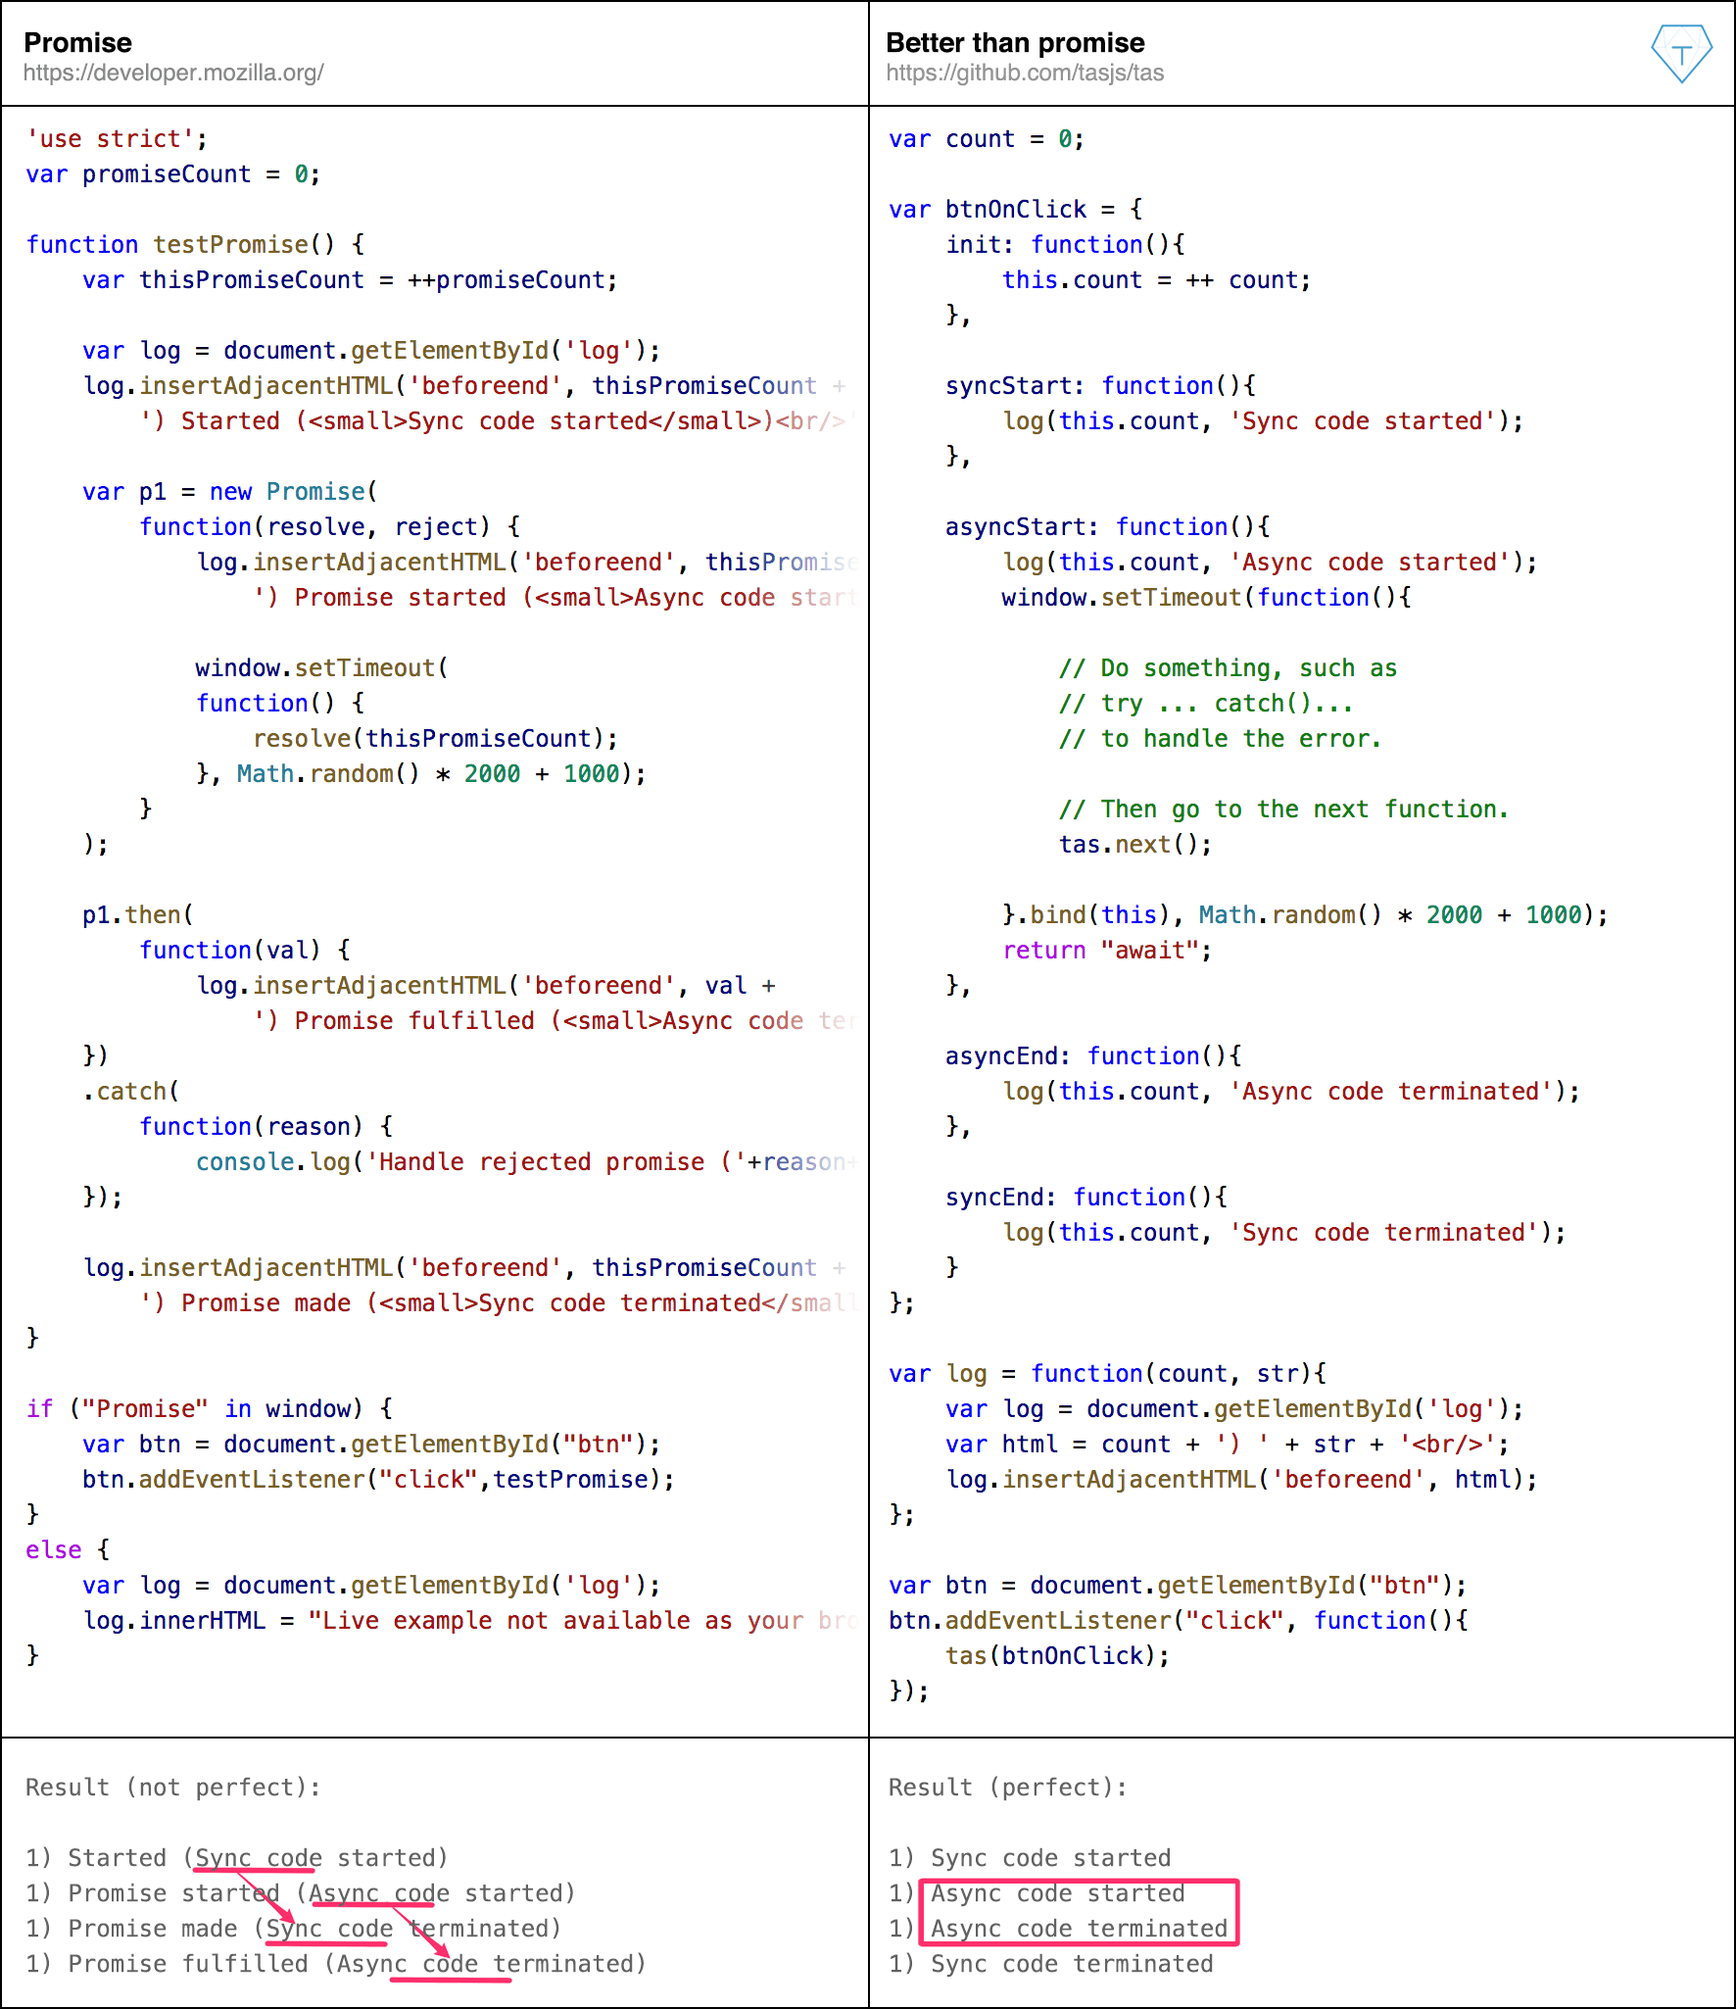
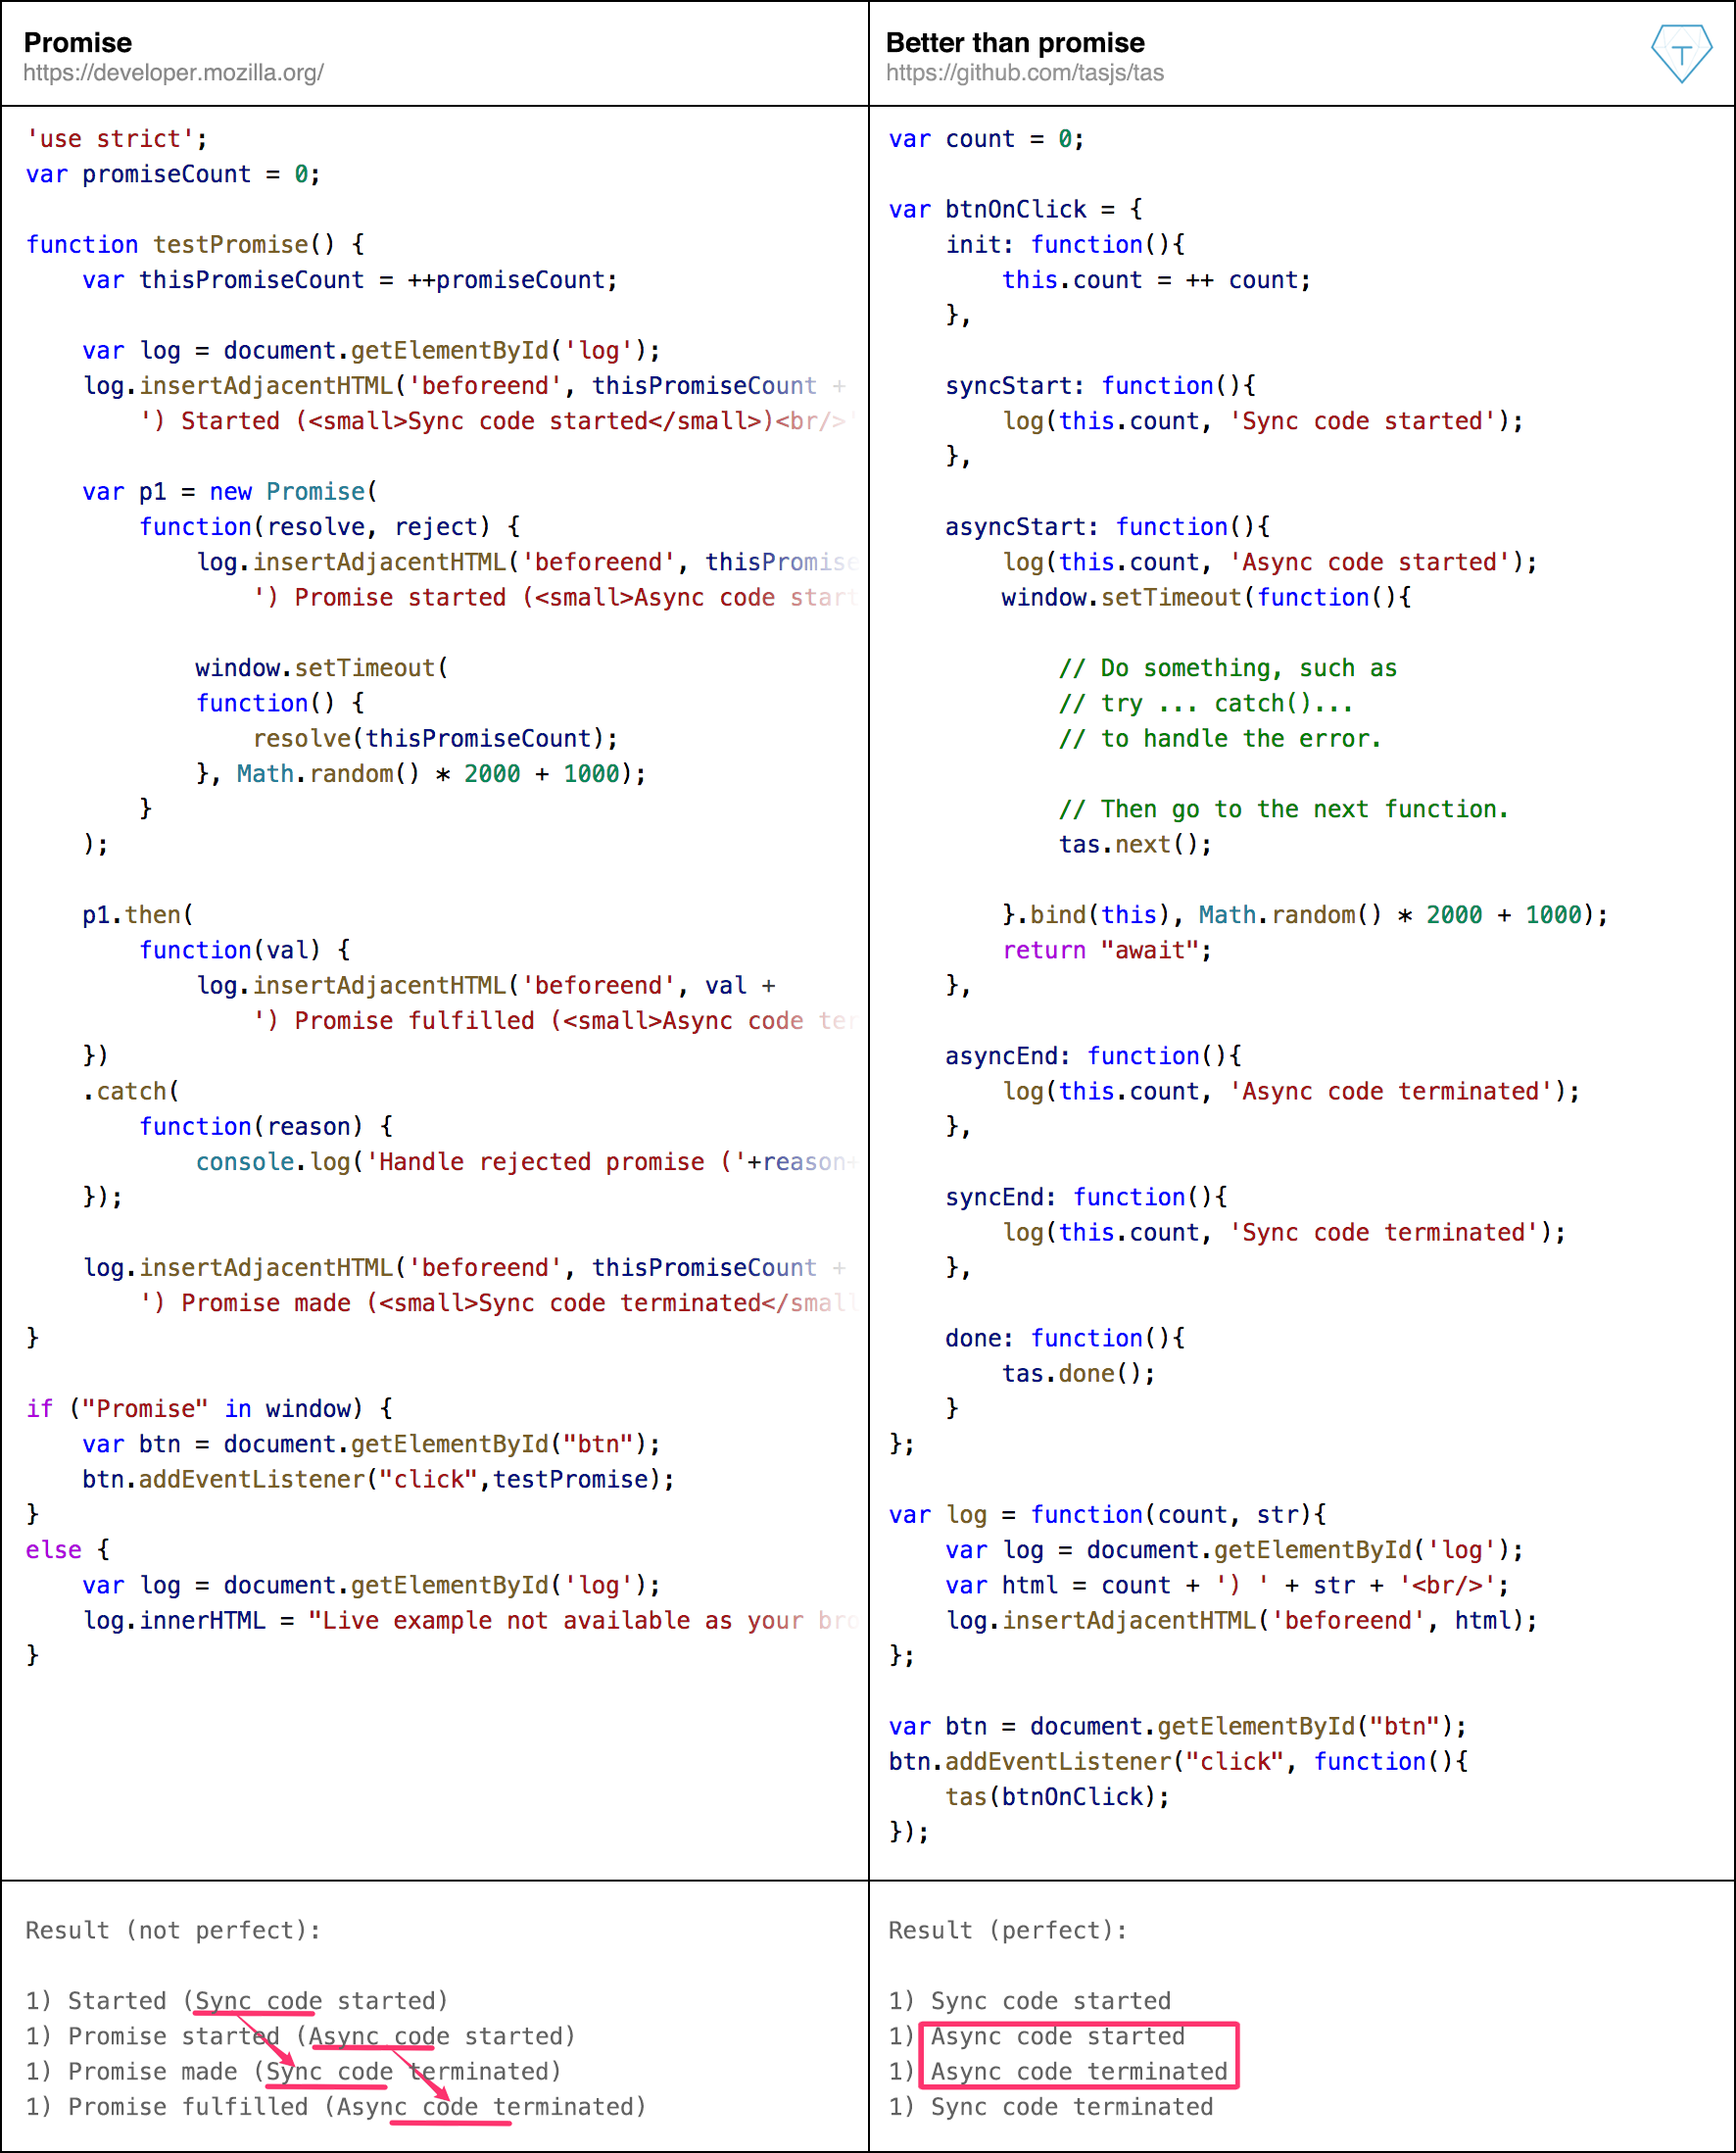
update demo for tas.done()

diff --git a/examples/general/fixing-callback-hell/fixing-callback-hell.js b/examples/general/fixing-callback-hell/fixing-callback-hell.js
@@ -5,7 +5,6 @@ var gm = require('gm');
 var source = "./images/";
 var dest = "./images-resize/";
 var widths = [100, 200];
-
 var filename;
 
 tas.await(function(){
@@ -43,4 +42,6 @@ tas.forEach("files", {
 	}
 });
 
-tas("Done");
+tas(function(){
+	tas.done();
+});

diff --git a/examples/general/better-than-promise/tas.js b/examples/general/better-than-promise/tas.js
@@ -30,6 +30,10 @@ var btnOnClick = {
 
 	syncEnd: function(){
 		log(this.count, 'Sync code terminated');
+	},
+
+	done: function(){
+		tas.done();
 	}
 };
 
